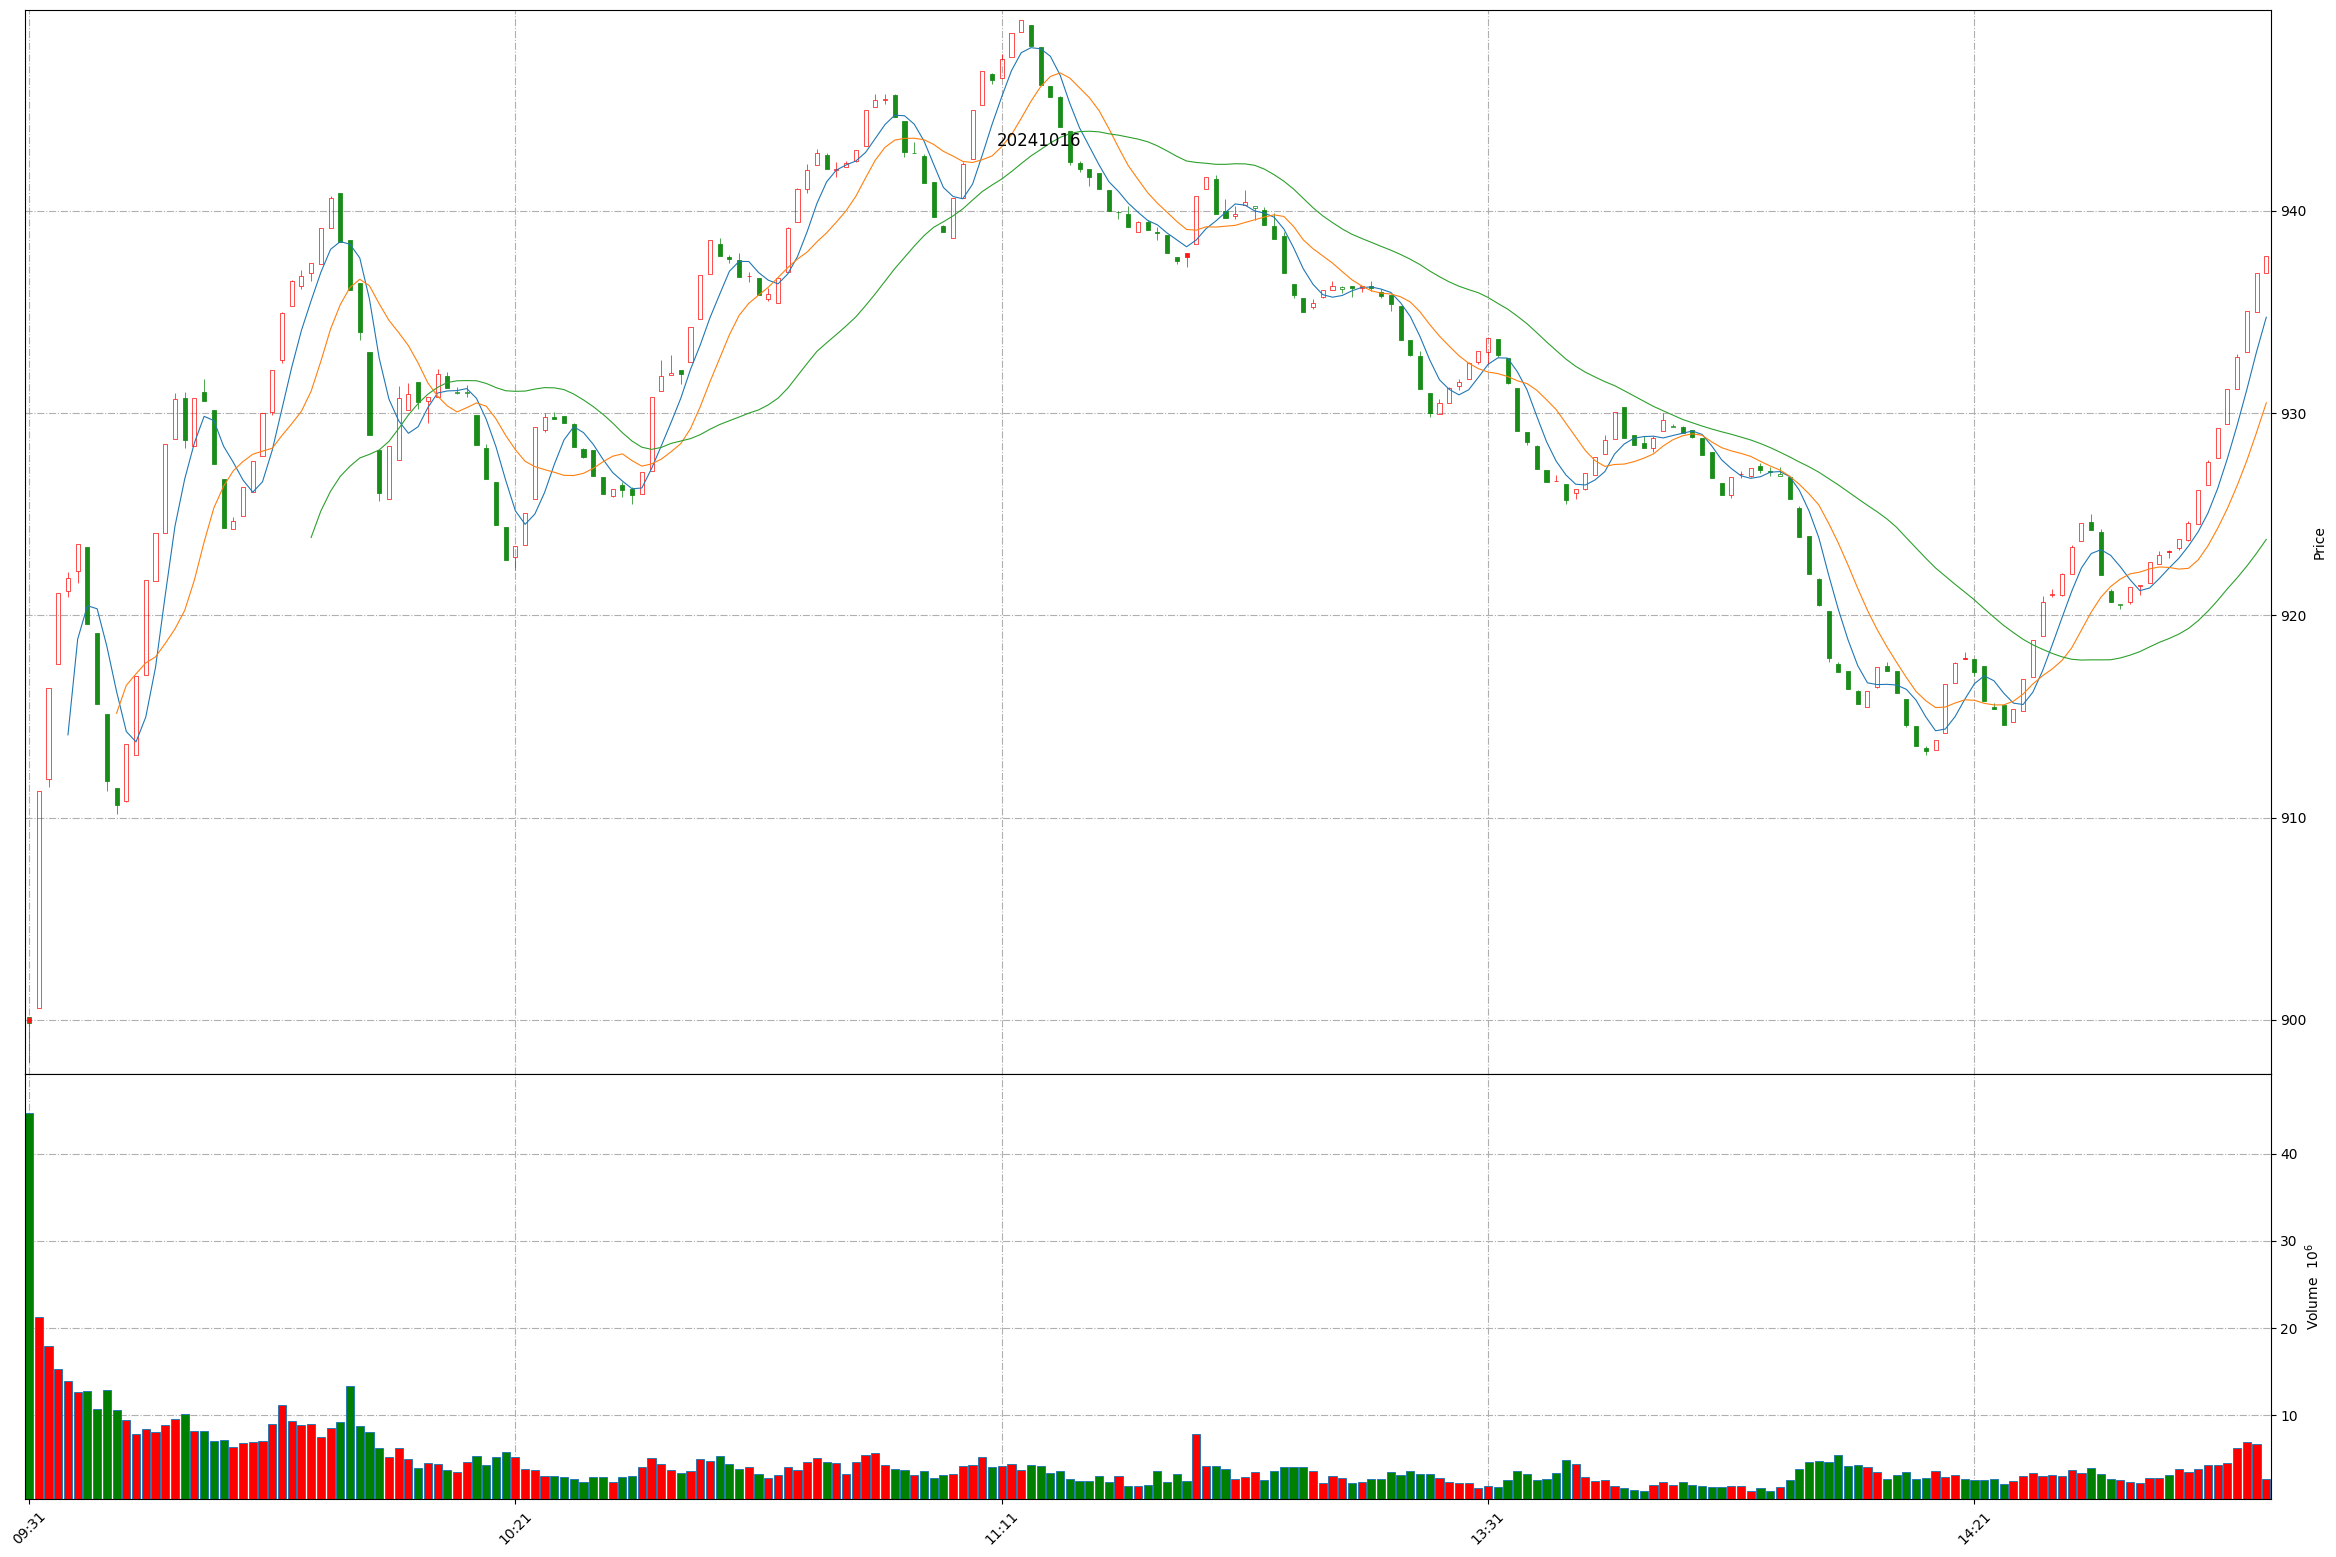
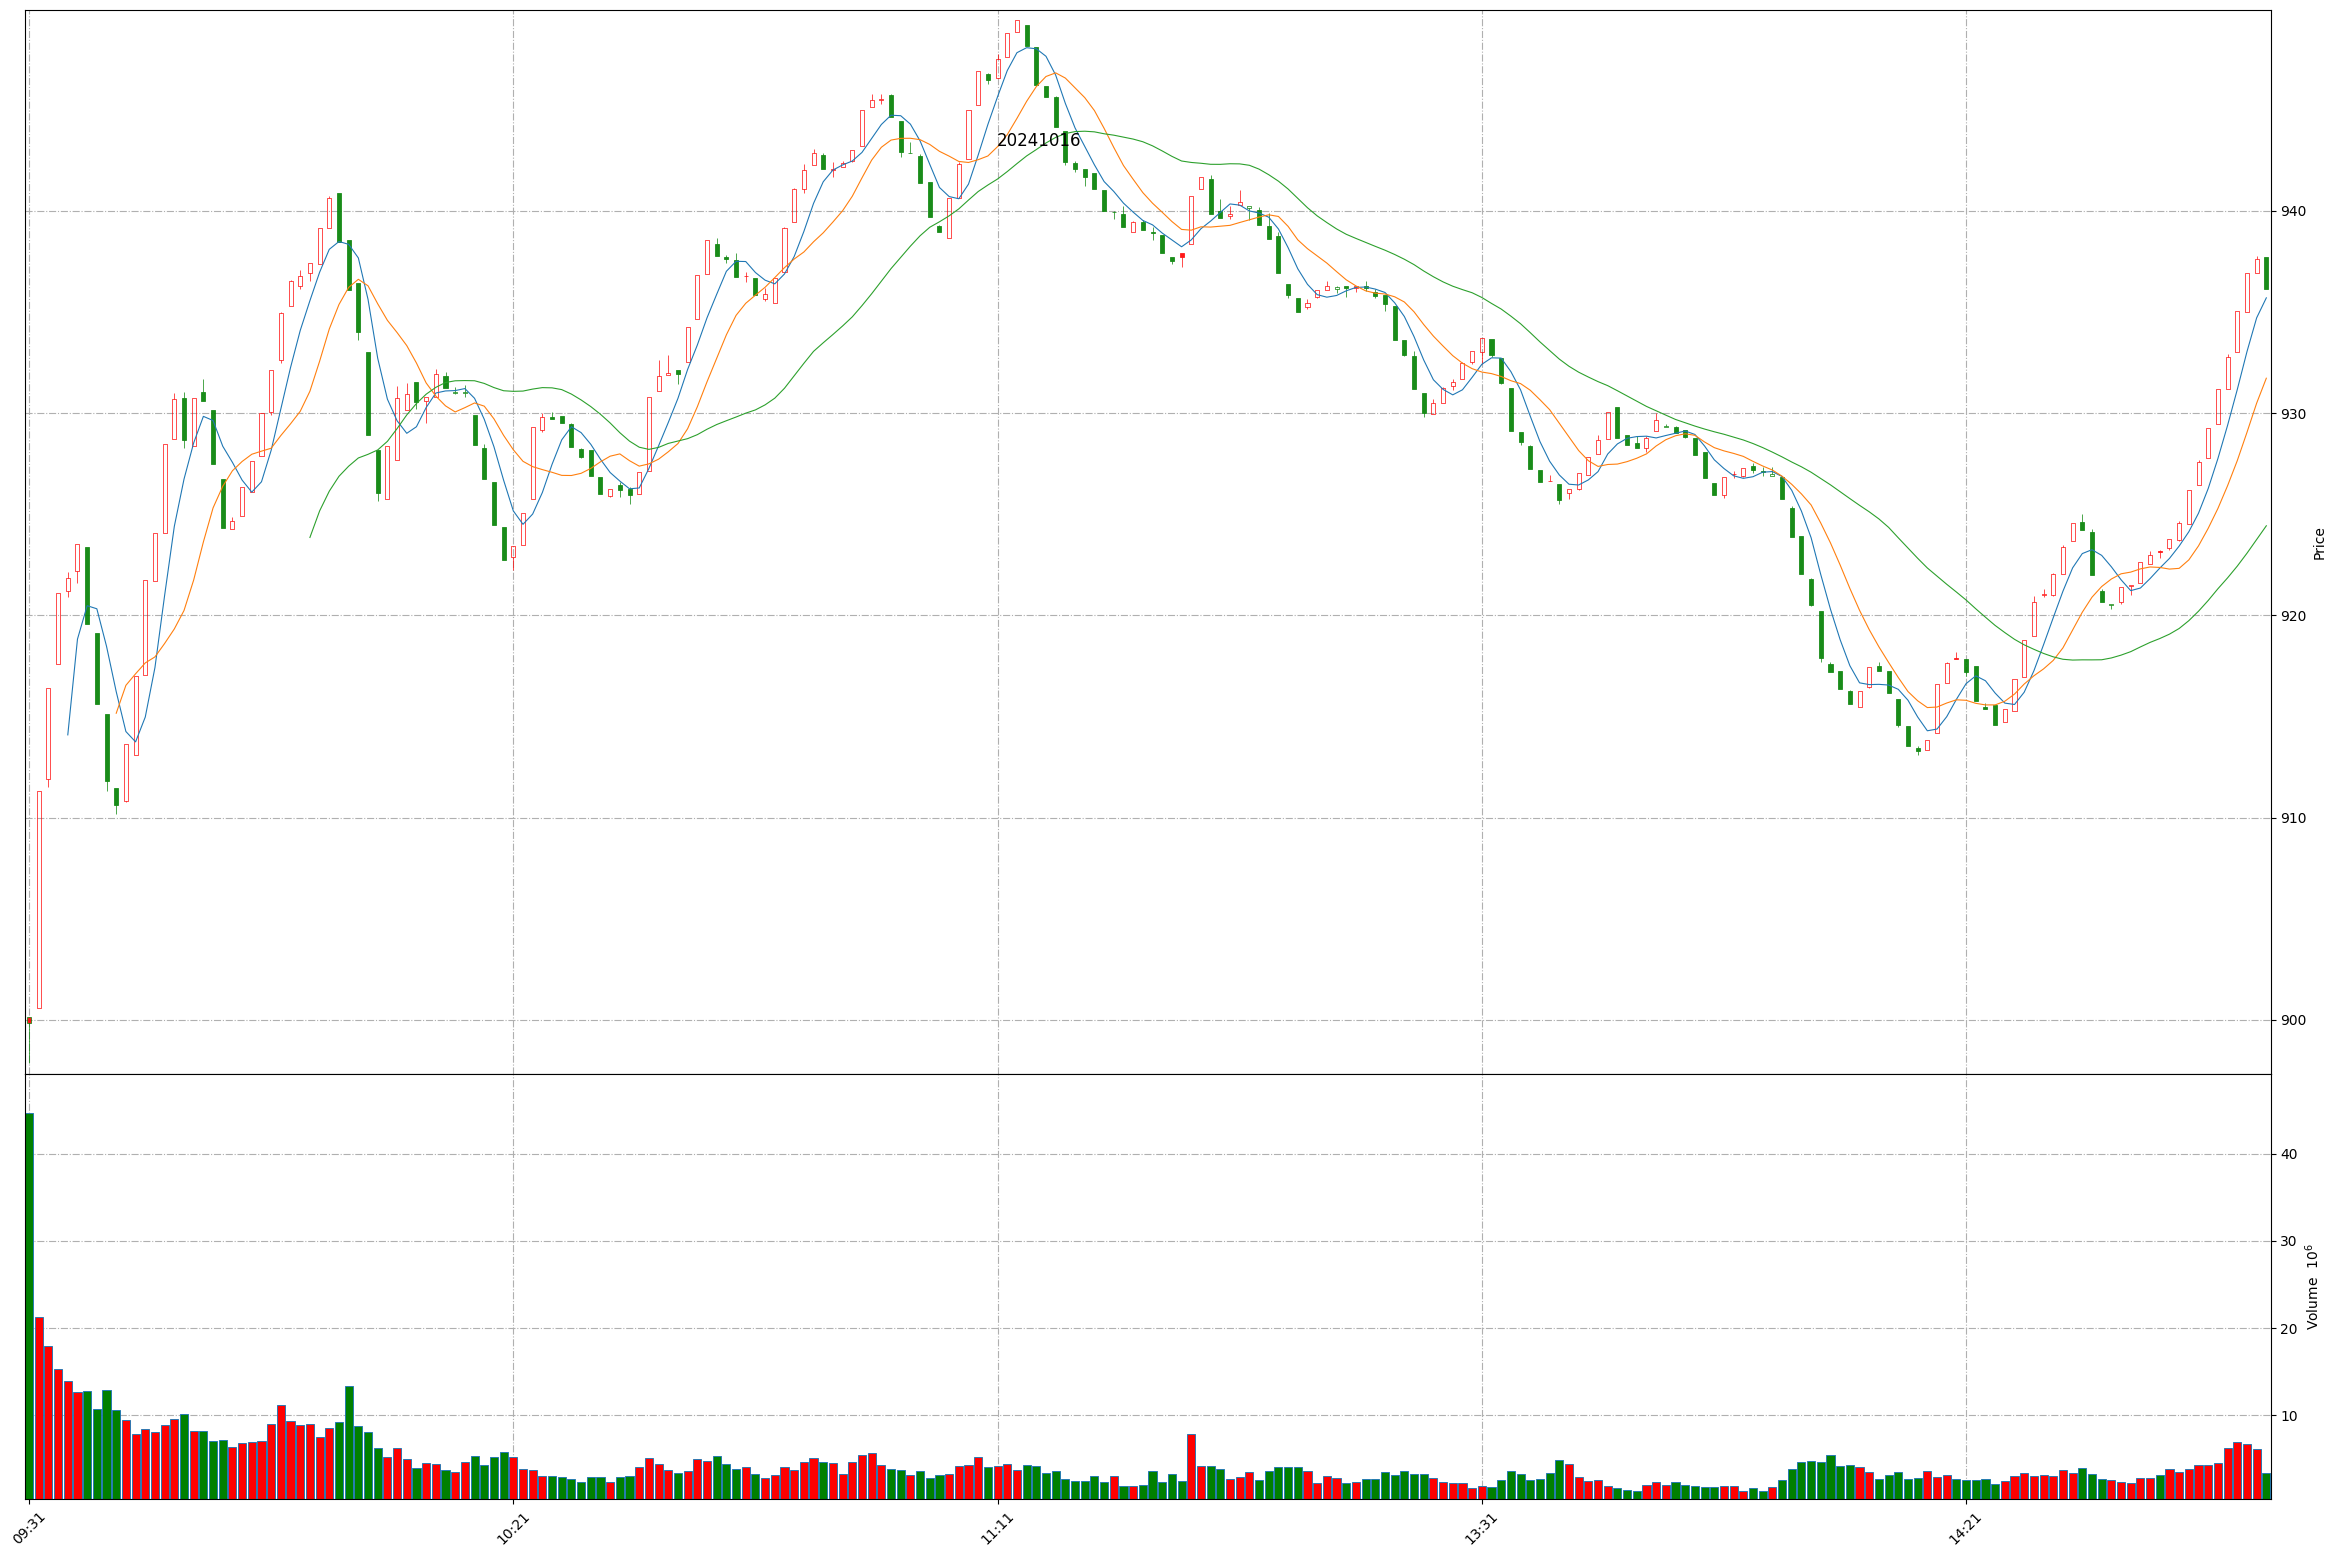
Github action update at 2024-10-16 14:51:44.

diff --git a/README.md b/README.md
@@ -1,11 +1,11 @@
 
 # Daily-A-share-market-quotes 每日 A 股指数（5min 更新）- 20241016
 
-### 上证指数 20241016 14:50
+### 上证指数 20241016 14:51
 ![](./fig/2024/10/20241016-sh000001.png)
 
-### 深证成指 20241016 14:50
+### 深证成指 20241016 14:51
 ![](./fig/2024/10/20241016-sz399001.png)
 
-### 北证50 20241016 14:50
+### 北证50 20241016 14:51
 ![](./fig/2024/10/20241016-bj899050.png)
